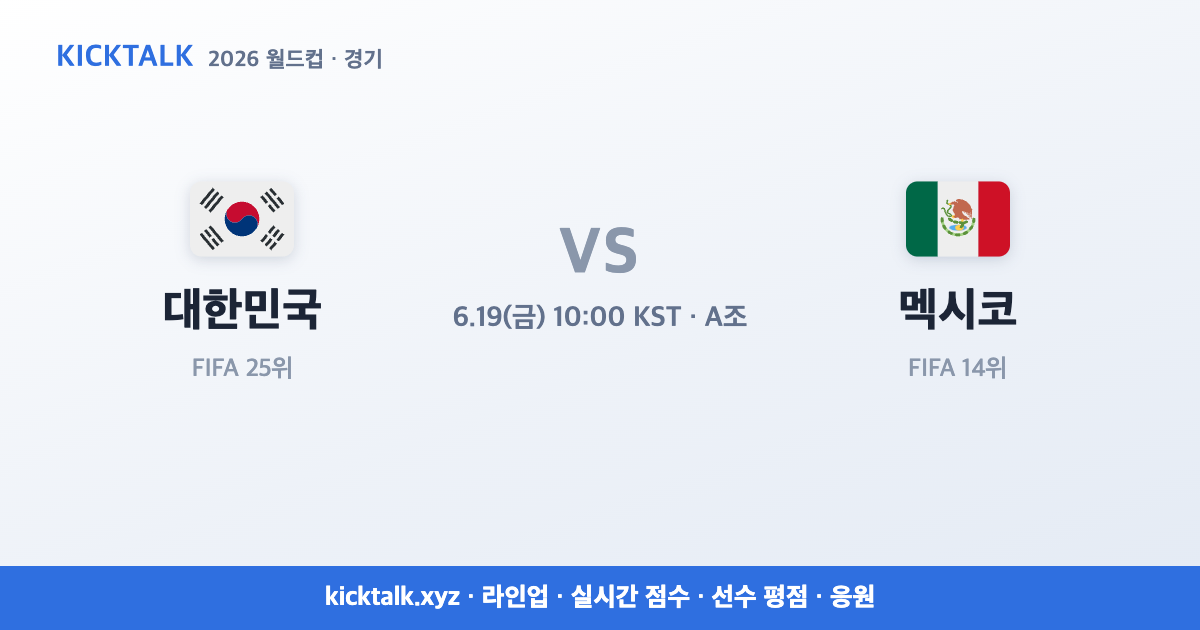
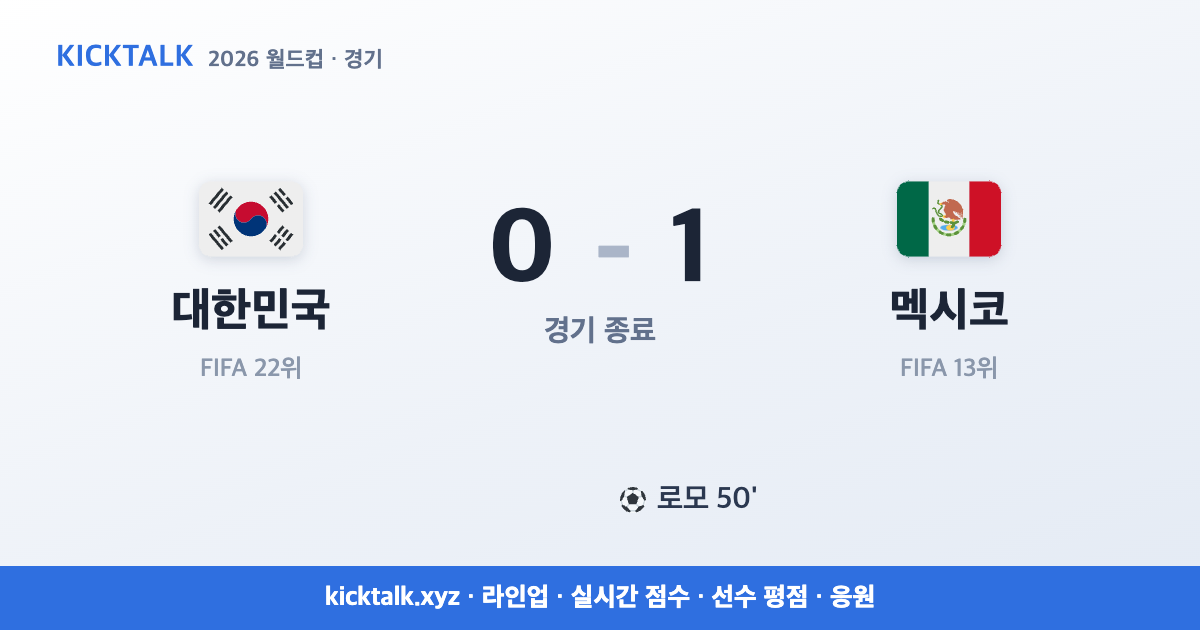
OG 자동재생성(종료경기 결과반영): match-4

diff --git a/m/mexico-vs-south-korea.html b/m/mexico-vs-south-korea.html
@@ -1,1 +1,1 @@
-<!DOCTYPE html><html lang=ko><head><meta charset=UTF-8><meta name=viewport content='width=device-width,initial-scale=1'><title>멕시코 vs 대한민국 중계·라인업·선수평점 | 킥톡 2026 월드컵</title><meta name=description content='멕시코 vs 대한민국 6/19(금) 10:00 KST 킥오프 (A조). 예상·확정 라인업, 실시간 중계 스코어, 선수 평점·MVP 투표, 응원·하이라이트까지 킥톡에서 한눈에.'><link rel=canonical href='https://kicktalk.xyz/m/mexico-vs-south-korea.html'><meta name=robots content='index,follow'><meta property=og:type content=website><meta property=og:title content='멕시코 vs 대한민국 — 중계·라인업·평점 | 킥톡'><meta property=og:description content='멕시코 vs 대한민국 6/19(금) 10:00 KST 킥오프 (A조). 예상·확정 라인업, 실시간 중계 스코어, 선수 평점·MVP 투표, 응원·하이라이트까지 킥톡에서 한눈에.'><meta property=og:url content='https://kicktalk.xyz/m/mexico-vs-south-korea.html'><meta property=og:image content='https://kicktalk.xyz/ogm/mexico-vs-south-korea.png?v=3'><meta property=og:image:width content='1200'><meta property=og:image:height content='630'><meta name=twitter:card content='summary_large_image'><meta name=twitter:title content='멕시코 vs 대한민국 | 킥톡'><meta name=twitter:description content='멕시코 vs 대한민국 6/19(금) 10:00 KST 킥오프 (A조). 예상·확정 라인업, 실시간 중계 스코어, 선수 평점·MVP 투표, 응원·하이라이트까지 킥톡에서 한눈에.'><meta name=twitter:image content='https://kicktalk.xyz/ogm/mexico-vs-south-korea.png?v=3'><script type=application/ld+json>{"@context":"https://schema.org","@type":"SportsEvent","name":"멕시코 vs 대한민국","sport":"축구","startDate":"2026-06-18","location":{"@type":"Place","name":"Estadio Akron, Zapopan"},"url":"https://kicktalk.xyz/m/mexico-vs-south-korea.html","competitor":[{"@type":"SportsTeam","name":"멕시코"},{"@type":"SportsTeam","name":"대한민국"}]}</script><style>body{margin:0;background:#070d18;color:#eaf0fb;font-family:-apple-system,'Apple SD Gothic Neo',sans-serif;line-height:1.6}.wrap{max-width:680px;margin:0 auto;padding:20px;text-align:center}a{color:#4f8cff;text-decoration:none}.brand{font-weight:800;padding:8px 0;font-size:15px}h1{font-size:26px;margin:18px 0 6px}.vs{color:#9fb0cc;font-size:18px;font-weight:600}.meta{color:#9fb0cc;font-size:14px;margin:0 0 8px}h2{font-size:14px;color:#9fb0cc;margin:22px 0 8px}ul.wp{list-style:none;padding:0;text-align:left}ul.wp li{background:#111c30;border:1px solid #243049;border-radius:8px;padding:9px 12px;margin-bottom:6px;font-size:14px}.cta{display:inline-block;background:#4f8cff;color:#06122a;font-weight:800;border-radius:11px;padding:13px 20px;margin:20px 0 8px}.sub{color:#6f7d96;font-size:12.5px}.tlinks{font-size:13.5px;margin-top:14px}.ft{margin-top:26px;padding-top:14px;border-top:1px solid #243049;color:#6f7d96;font-size:12.5px}.ft a{color:#9fb0cc}</style></head><body><div class=wrap><div class=brand>⚽ <a href='https://kicktalk.xyz/'>킥톡 KickTalk</a></div><h1>🇲🇽 멕시코 <span class=vs>vs</span> 대한민국 🇰🇷</h1><p class=meta>6/19(금) 10:00 KST · A조 · Estadio Akron, Zapopan</p><h2>멕시코 vs 대한민국 경기 정보·중계</h2><p>멕시코 vs 대한민국 경기는 6/19(금) 10:00 KST A조에 열립니다. 예상·확정 라인업과 실시간 중계 스코어, 경기 후 선수 평점·MVP 투표를 킥톡에서 무료로 확인하세요. 경기장: Estadio Akron, Zapopan.</p><h2>관전 포인트</h2><ul class=wp><li>산티아고 히메네스와 손흥민, 양 팀 간판 공격수의 결정력 대결이 그룹 최대어 중 하나입니다 — 한 번의 마무리가 승부를 가를 수 있습니다.</li><li>유사한 스타일(빠른 측면 전환·전방 압박)의 정면 충돌 — 멕시코의 빌드업 안정감 vs 김민재가 버티는 한국 수비의 견고함이 맞붙습니다.</li><li>개최국 멕시코의 홈 분위기와 정신력 대 이강인의 창의성이 더해진 한국 공격, 미드필드 주도권 다툼이 흐름을 좌우할 변수입니다.</li></ul><a class=cta href='https://kicktalk.xyz/#match/match-4'>킥톡에서 실시간 점수·라인업·선수평점 보기 →</a><p class=sub>예상 라인업 · 실시간 스코어 · 선수 평점/MVP 투표 · 응원 메시지 · 포인트 베팅</p><p class=tlinks><a href='https://kicktalk.xyz/t/mexico.html'>멕시코 선수단</a> · <a href='https://kicktalk.xyz/t/south-korea.html'>대한민국 선수단</a></p><div class=ft><a href='https://kicktalk.xyz/'>홈</a> · <a href='https://kicktalk.xyz/about.html'>소개</a> · <a href='https://kicktalk.xyz/privacy.html'>개인정보처리방침</a> · <a href='https://kicktalk.xyz/terms.html'>서비스 약관</a></div></div></body></html>
+<!DOCTYPE html><html lang=ko><head><meta charset=UTF-8><meta name=viewport content='width=device-width,initial-scale=1'><title>멕시코 vs 대한민국 중계·라인업·선수평점 | 킥톡 2026 월드컵</title><meta name=description content='멕시코 vs 대한민국 6/19(금) 10:00 KST 킥오프 (A조). 예상·확정 라인업, 실시간 중계 스코어, 선수 평점·MVP 투표, 응원·하이라이트까지 킥톡에서 한눈에.'><link rel=canonical href='https://kicktalk.xyz/m/mexico-vs-south-korea.html'><meta name=robots content='index,follow'><meta property=og:type content=website><meta property=og:title content='멕시코 vs 대한민국 — 중계·라인업·평점 | 킥톡'><meta property=og:description content='멕시코 vs 대한민국 6/19(금) 10:00 KST 킥오프 (A조). 예상·확정 라인업, 실시간 중계 스코어, 선수 평점·MVP 투표, 응원·하이라이트까지 킥톡에서 한눈에.'><meta property=og:url content='https://kicktalk.xyz/m/mexico-vs-south-korea.html'><meta property=og:image content='https://kicktalk.xyz/ogm/mexico-vs-south-korea.png?v=4'><meta property=og:image:width content='1200'><meta property=og:image:height content='630'><meta name=twitter:card content='summary_large_image'><meta name=twitter:title content='멕시코 vs 대한민국 | 킥톡'><meta name=twitter:description content='멕시코 vs 대한민국 6/19(금) 10:00 KST 킥오프 (A조). 예상·확정 라인업, 실시간 중계 스코어, 선수 평점·MVP 투표, 응원·하이라이트까지 킥톡에서 한눈에.'><meta name=twitter:image content='https://kicktalk.xyz/ogm/mexico-vs-south-korea.png?v=4'><script type=application/ld+json>{"@context":"https://schema.org","@type":"SportsEvent","name":"멕시코 vs 대한민국","sport":"축구","startDate":"2026-06-18","location":{"@type":"Place","name":"Estadio Akron, Zapopan"},"url":"https://kicktalk.xyz/m/mexico-vs-south-korea.html","competitor":[{"@type":"SportsTeam","name":"멕시코"},{"@type":"SportsTeam","name":"대한민국"}]}</script><style>body{margin:0;background:#070d18;color:#eaf0fb;font-family:-apple-system,'Apple SD Gothic Neo',sans-serif;line-height:1.6}.wrap{max-width:680px;margin:0 auto;padding:20px;text-align:center}a{color:#4f8cff;text-decoration:none}.brand{font-weight:800;padding:8px 0;font-size:15px}h1{font-size:26px;margin:18px 0 6px}.vs{color:#9fb0cc;font-size:18px;font-weight:600}.meta{color:#9fb0cc;font-size:14px;margin:0 0 8px}h2{font-size:14px;color:#9fb0cc;margin:22px 0 8px}ul.wp{list-style:none;padding:0;text-align:left}ul.wp li{background:#111c30;border:1px solid #243049;border-radius:8px;padding:9px 12px;margin-bottom:6px;font-size:14px}.cta{display:inline-block;background:#4f8cff;color:#06122a;font-weight:800;border-radius:11px;padding:13px 20px;margin:20px 0 8px}.sub{color:#6f7d96;font-size:12.5px}.tlinks{font-size:13.5px;margin-top:14px}.ft{margin-top:26px;padding-top:14px;border-top:1px solid #243049;color:#6f7d96;font-size:12.5px}.ft a{color:#9fb0cc}</style></head><body><div class=wrap><div class=brand>⚽ <a href='https://kicktalk.xyz/'>킥톡 KickTalk</a></div><h1>🇲🇽 멕시코 <span class=vs>vs</span> 대한민국 🇰🇷</h1><p class=meta>6/19(금) 10:00 KST · A조 · Estadio Akron, Zapopan</p><h2>멕시코 vs 대한민국 경기 정보·중계</h2><p>멕시코 vs 대한민국 경기는 6/19(금) 10:00 KST A조에 열립니다. 예상·확정 라인업과 실시간 중계 스코어, 경기 후 선수 평점·MVP 투표를 킥톡에서 무료로 확인하세요. 경기장: Estadio Akron, Zapopan.</p><h2>관전 포인트</h2><ul class=wp><li>산티아고 히메네스와 손흥민, 양 팀 간판 공격수의 결정력 대결이 그룹 최대어 중 하나입니다 — 한 번의 마무리가 승부를 가를 수 있습니다.</li><li>유사한 스타일(빠른 측면 전환·전방 압박)의 정면 충돌 — 멕시코의 빌드업 안정감 vs 김민재가 버티는 한국 수비의 견고함이 맞붙습니다.</li><li>개최국 멕시코의 홈 분위기와 정신력 대 이강인의 창의성이 더해진 한국 공격, 미드필드 주도권 다툼이 흐름을 좌우할 변수입니다.</li></ul><a class=cta href='https://kicktalk.xyz/#match/match-4'>킥톡에서 실시간 점수·라인업·선수평점 보기 →</a><p class=sub>예상 라인업 · 실시간 스코어 · 선수 평점/MVP 투표 · 응원 메시지 · 포인트 베팅</p><p class=tlinks><a href='https://kicktalk.xyz/t/mexico.html'>멕시코 선수단</a> · <a href='https://kicktalk.xyz/t/south-korea.html'>대한민국 선수단</a></p><div class=ft><a href='https://kicktalk.xyz/'>홈</a> · <a href='https://kicktalk.xyz/about.html'>소개</a> · <a href='https://kicktalk.xyz/privacy.html'>개인정보처리방침</a> · <a href='https://kicktalk.xyz/terms.html'>서비스 약관</a></div></div></body></html>